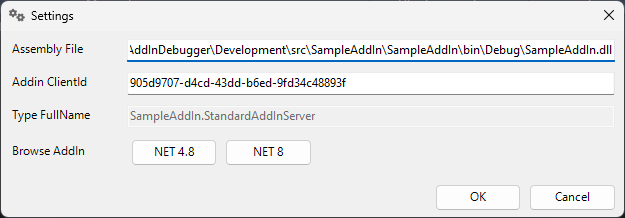
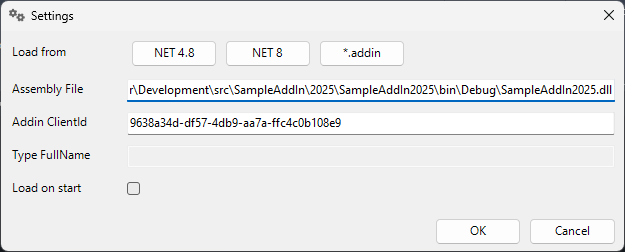
Update ReadMe

diff --git a/README.md b/README.md
@@ -74,6 +74,15 @@ because it breaks the execution on the line in this command.
 
 ![Settings](Documentation/img/Settings.png)
 
+**Load from** - Allows you to read information from AddIn build or from .addin file and fill the fields below. 
+
+- **NET 48, NET8** - Navigate to the add-in build file. If the DLL file contains at least one add-in implementation, 
+the values are automatically extracted from this file. You can choose from two loaders for specific runtimes.
+- **\*.addin** - Navigate to .addin file related to the addin build. Builds are searched according to value in `<Assembly>` node
+in .addin file. If the relative path in `<Assembly>` node does't point to existing file, all potential files are listed and 
+you must select which one you want to use. Type FullName field is not filled in this case.
+
+
 **Assembly File** - Contains full file name of the original build of the project.
 
 **AddIn ClientId** - Contains GUID of the class which implements `Inventor.ApplicationAddInServer` interface.
@@ -88,9 +97,6 @@ public class StandardAddInServer : Inventor.ApplicationAddInServer
 
 **Type FullName** - Contains full name of the type which implements  `Inventor.ApplicationAddInServer` interface. 
 This value is read-only and is only for information.
-
-**Browse AddIn** - Allows you to navigate to the add-in build file. If the DLL file contains at least one add-in implementation, 
-the values are automatically extracted from this file. You can choose from two loaders for specific runtimes.
 
 **Load on start** - Loads the addin immediately during Inventor start.
 Add-in must be configured before.
@@ -131,6 +137,9 @@ XCopy "$(ProjectDir)Autodesk.InventorAddIn1.Inventor.addin" "%AppData%\Autodesk\
 ```
 
 If you use another method for loading, disable them too. The easiest way is to delete or change extension of the `*.addin` file.
+
+>NOTE: Disable the addin in AddIn Manager is sufficient, 
+>but it can cause an issue because the addin can be loaded for some reason.
 
 ## Set automatic versioning
 In *Project settings* set assembly version to auto increment.
